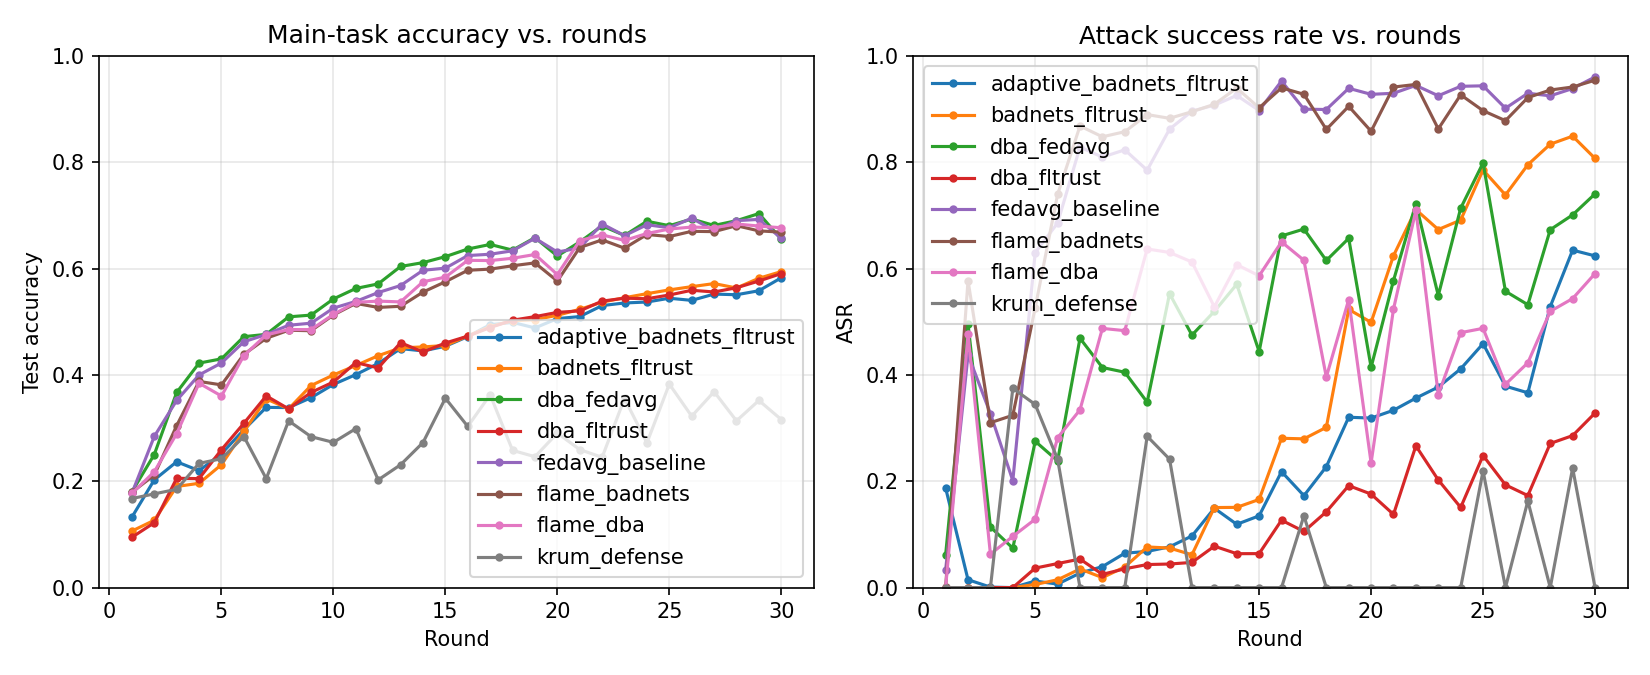
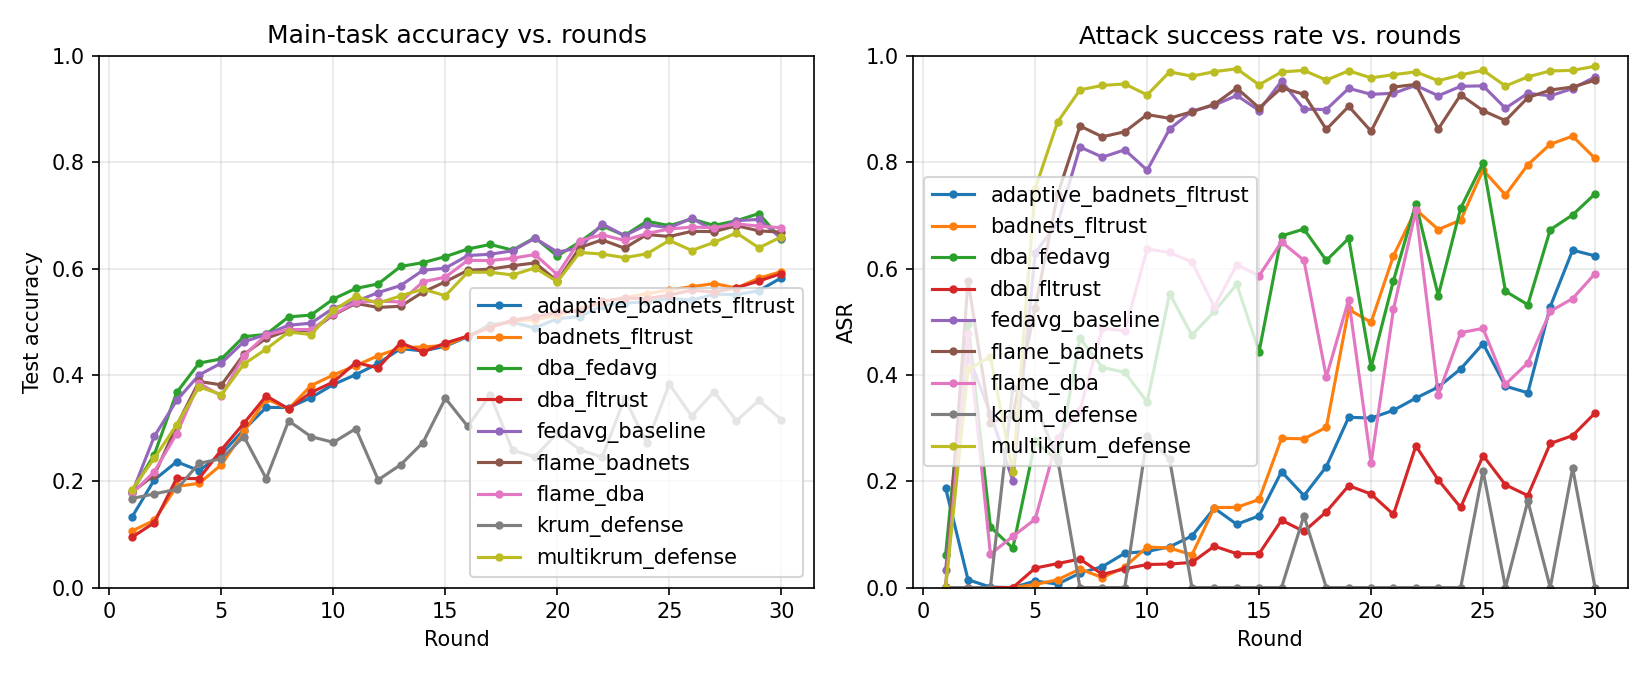
Add Multi-Krum defense, evaluated vs BadNets
multi_krum_aggregate (added to aggregation.py in the FLAME commit)
averages the to_keep=num_fit-num_malicious most central updates instead
of single-Krum's keep-exactly-one rule.

Fixes single-Krum's accuracy collapse (0.316 -> 0.660, matching
undefended FedAvg's 0.657) but ASR jumps to 0.981, higher than even
undefended FedAvg -- keeping 8 of 10 updates per round only excludes the
2 most distance-outlying ones, and under this repo's non-IID skew that
tracks natural client heterogeneity as much as actual malicious
behavior. Documented as a hard accuracy/robustness knob (to_keep),
same underlying non-IID pathology as FLAME's clustering failure.

diff --git a/scripts/run_multikrum_defense.py b/scripts/run_multikrum_defense.py
@@ -1,0 +1,30 @@
+"""Multi-Krum defense against BadNets, same setup as the single-Krum run so
+the two are directly comparable -- this is the fix for single-Krum's
+keep-exactly-one-client accuracy collapse."""
+import math
+import os
+import sys
+
+sys.path.insert(0, os.path.dirname(os.path.dirname(os.path.abspath(__file__))))
+
+from src.fl.experiment import ExperimentConfig, run_experiment
+from src.defenses.aggregation import multi_krum_aggregate
+
+cfg = ExperimentConfig(
+    name="multikrum_defense",
+    num_clients=20,
+    dirichlet_alpha=0.5,
+    fraction_fit=0.5,
+    num_rounds=30,
+    local_epochs=2,
+    fraction_malicious=0.2,
+    poison_rate=0.5,
+    target_label=0,
+)
+
+if __name__ == "__main__":
+    num_fit = max(2, round(cfg.num_clients * cfg.fraction_fit))
+    # Defender's assumed number of Byzantine clients among those selected per round.
+    num_malicious = max(1, math.ceil(cfg.fraction_malicious * num_fit))
+    to_keep = max(1, num_fit - num_malicious)  # average everyone not assumed Byzantine
+    run_experiment(cfg, multi_krum_aggregate, aggregate_kwargs={"num_malicious": num_malicious, "to_keep": to_keep})

diff --git a/README.md b/README.md
@@ -64,6 +64,12 @@ against both.
     client update by summed distance to its n-f-2 closest neighbors and keeps
     only the single most "central" update each round (single-Krum,
     `to_keep=0`), discarding the rest entirely.
+  - **Multi-Krum** — same distance-based scoring as Krum, but *averages* the
+    `to_keep` most central updates instead of keeping exactly one
+    (`to_keep = num_fit - num_malicious`, i.e. everyone not assumed
+    Byzantine). Meant to fix single-Krum's accuracy collapse by not
+    discarding most of the honest signal every round. See Results — it
+    fixes accuracy but at a cost.
   - **FLTrust** (Cao et al., 2021) — implemented directly (Flower doesn't
     ship one). The server holds a small trusted root dataset (500 samples,
     reserved via `reserve_root_set` in `src/fl/data.py` so it's strictly
@@ -107,6 +113,7 @@ Setup (all 4 runs): 20 clients, Dirichlet α=0.5, 20% malicious (4 clients),
 |---|---|---|---|
 | BadNets | FedAvg (none) | 0.657 | 0.961 |
 | BadNets | Krum | 0.316 | 0.000 |
+| BadNets | Multi-Krum | 0.660 | 0.981 |
 | BadNets | FLAME | 0.669 | 0.954 |
 | BadNets | FLTrust | 0.594 | 0.807 |
 | BadNets | FLTrust, adaptive attacker | 0.583 | 0.624 |
@@ -131,6 +138,21 @@ good, unusual-but-honest updates along with the bad ones — accuracy plateaus
 at 0.32, roughly half of FedAvg's. A known weakness of Krum: it trades away
 most of federated learning's statistical efficiency to get robustness,
 and that trade gets worse the more heterogeneous the clients are.
+
+**Multi-Krum vs. BadNets**: fixes exactly the accuracy problem above — 0.660
+final accuracy, essentially matching undefended FedAvg (0.657) and more than
+double single-Krum's 0.316 — by averaging the 8 most central updates each
+round (`to_keep = num_fit - num_malicious`) instead of keeping just one. But
+ASR climbs to 0.981, *higher* than undefended FedAvg's own 0.961: keeping 8
+of 10 client updates per round only excludes the 2 most distance-outlying
+ones, and under this repo's Dirichlet(α=0.5) skew "most distance-outlying"
+tracks natural client heterogeneity at least as much as it tracks actual
+malicious behavior (the same effect documented for FLAME below), so the
+excluded pair usually isn't the pair that matters. Between the two Krum
+variants there's a hard knob, not a free lunch: `to_keep` trades accuracy
+against robustness directly, and no single setting tested here buys both —
+`to_keep=0` (single-Krum) sacrifices accuracy for full suppression,
+`to_keep=n-f` (Multi-Krum) sacrifices suppression for full accuracy.
 
 **FLTrust vs. DBA**: a much better accuracy/robustness trade — 0.591 accuracy
 (only 6.6pp below the undefended run) with ASR cut from 0.741 to 0.328, a
@@ -210,7 +232,7 @@ single-round artifact" rather than a settled asymptote -- see
 `results/metrics/{badnets_fltrust,adaptive_badnets_fltrust}.json` for the
 full per-round curves.
 
-Raw per-round metrics: `results/metrics/{fedavg_baseline,krum_defense,dba_fedavg,dba_fltrust,flame_badnets,flame_dba,badnets_fltrust,adaptive_badnets_fltrust}.json`.
+Raw per-round metrics: `results/metrics/{fedavg_baseline,krum_defense,multikrum_defense,dba_fedavg,dba_fltrust,flame_badnets,flame_dba,badnets_fltrust,adaptive_badnets_fltrust}.json`.
 
 ## How to run
 
@@ -220,6 +242,7 @@ pip install -r requirements.txt
 # BadNets attack
 python scripts/run_fedavg_baseline.py   # no defense
 python scripts/run_krum_defense.py      # Krum defense
+python scripts/run_multikrum_defense.py # Multi-Krum defense
 
 # DBA attack
 python scripts/run_dba_fedavg.py        # no defense
